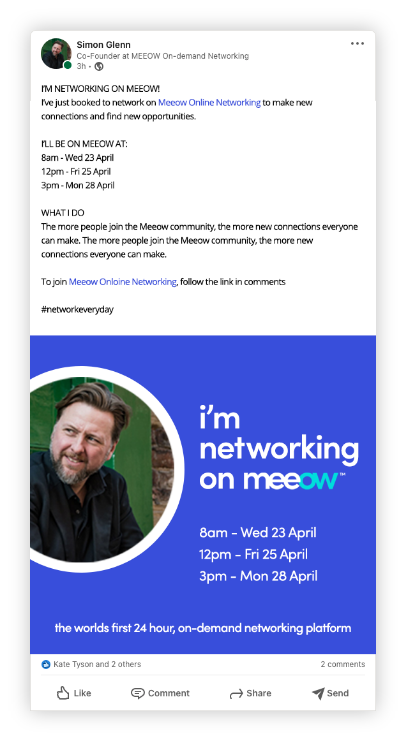
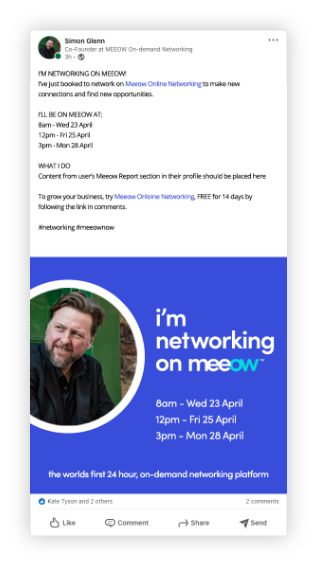
fix font and box sizing

Changed region(s): [[0.0568, 0.03, 0.9369, 0.9611]]

diff --git a/src/styles/popups.css b/src/styles/popups.css
@@ -13,9 +13,11 @@
 .popup {
   background-color: var(--main-blue);
   height: 60vh;
+  max-height: 380px;
   width: 60vw;
+  max-width: 672px;
   margin: auto;
-  margin-top: 20vh;
+  margin-top: 26vh;
   color: #fff;
   overflow: hidden;
   border-radius: 13px;
@@ -23,26 +25,32 @@
 
 .share-linkedin {
   width: 80vw;
+  max-width: 1330px;
   height: 75vh;
+  max-height: 638px;
   margin-top: 12vh;
 }
 
 .popup #close-btn {
   position: relative;
-  left: 56.5vw;
-  top: 0;
+  font-weight: 100;
+  top: -10px;
+  text-align: right;
   margin: 10px;
-  font-size: 1.4rem;
+  font-size: 3rem;
   z-index: 10;
 }
 
+.popup #close-btn:hover {
+  cursor: pointer;
+}
+
 .share-linkedin #close-btn {
-  left: 76vw;
-  color: #17171750;
+  color: var(--main-blue);
 }
 
 .popup-text {
-  margin-top: 8vh;
+  margin-top: 6vh;
   text-align: center;
 }
 
@@ -54,21 +62,22 @@
   text-decoration-skip-ink: none;
 }
 .popup .emoji {
-  height: 100px;
+  height: 55px;
   margin-bottom: 10px;
 }
 .popup .popup-title {
-  font-size: 3rem;
+  font-size: 2.14rem;
   letter-spacing: -1px;
   font-weight: 600;
   margin-bottom: 40px;
 }
 .popup h3 {
-  font-size: 1.8rem;
+  font-size: 1.43rem;
   margin-bottom: 10px;
 }
 .popup .popup-subtitle {
-  font-size: 1.4rem;
+  font-size: 1.14rem;
+  font-weight: 400;
 }
 
 .popup button {
@@ -78,7 +87,7 @@
   height: 50px;
   width: 270px;
   color: var(--white);
-  font-size: 1.2rem;
+  font-size: 1.12rem;
   font-weight: 600;
   margin-top: 36px;
   transition: 0.2 ease-in-out;
@@ -94,7 +103,7 @@
 
   text-decoration: underline;
   display: block;
-  margin-top: 30px;
+  margin-top: 20px;
 }
 
 /* POPUP WHT */
@@ -102,11 +111,11 @@
   background-color: #fff;
 }
 .popup-wht #close-btn {
-  color: #17171750;
+  color: var(--main-blue);
 }
 
 .popup-wht .popup-text {
-  margin-top: 11vh;
+  margin-top: 8vh;
 }
 
 .popup-wht .popup-title {
@@ -126,7 +135,7 @@
 
 /* NO ONE THERE POPUP */
 #noone-popup {
-  margin-top: 5vh;
+  margin-top: 1vh;
 }
 
 #noone-popup .popup-title {
@@ -135,15 +144,17 @@
 }
 
 #noone-popup .emoji {
-  height: 4rem;
+  height: 36px;
 }
 
 #noone-popup .popup-subtitle {
   margin-bottom: 10px;
+  margin-top: 10px;
 }
 #noone-popup .user-icon {
   display: inline-block;
-  margin: 10px 15px 0px 15px;
+  height: 48px;
+  margin: 20px 8px 0px 8px;
 }
 
 /* SOMEONE ELSE JOINED POPUP */
@@ -160,22 +171,26 @@
 }
 
 /* SHARE LINKEDIN POPUP */
-
+.popup-joined {
+  display: grid;
+  grid-template-columns: repeat(2, 50%);
+  width: 80vw;
+  max-width: 1330px;
+  height: 75vh;
+  max-height: 638px;
+}
 .popup-joined .popup-text {
-  display: inline-block;
-  width: 50%;
+  width: 100%;
   text-align: left;
-
-  padding-left: 5vw;
-  padding-right: 100px;
+  padding-left: 4vw;
+  padding-right: 150px;
 }
 
 .popup-joined .popup-title {
-  font-size: 2.9rem;
-  margin-bottom: 10%;
+  font-size: 2.14rem;
 }
 .popup-joined p {
-  font-size: 1.2rem;
+  font-size: 1.14rem;
 }
 .popup-joined button {
   background-color: #fff;
@@ -186,23 +201,25 @@
 }
 .popup-joined a {
   display: block;
-  margin-top: 20px;
+  position: relative;
+  top: 90px;
+  left: -40px;
   color: #fff;
   text-decoration: underline;
 }
 .popup-joined .image-container {
-  display: inline-block;
   background-color: #fff;
-  width: 40%;
-  height: 75vh;
-  position: absolute;
-  top: 12vh;
+  width: 100%;
+  height: 102%;
+  position: relative;
+  top: -50px;
   border-radius: 0 13px 13px 0;
+  display: flex;
+  justify-content: center;
+  align-items: center;
 }
 .popup-joined img {
   height: 80%;
-  top: 0;
-  margin: 6vh 25%;
 }
 .popup .popup-countdown {
   background-color: var(--main-blue);

diff --git a/src/components/popups/Popup.js b/src/components/popups/Popup.js
@@ -18,6 +18,7 @@ export default function popup({ closePopup, content, color }) {
         opacity: 1,
       }}
       className="popup-bkgrnd"
+      onClick={closePopup}
     >
       <motion.div
         initial={{
@@ -37,8 +38,11 @@ export default function popup({ closePopup, content, color }) {
             ? "share-linkedin"
             : ""
         }`}
+        onClick={(e) => e.stopPropagation()}
       >
-        <FaTimes id="close-btn" onClick={closePopup} />
+        <p id="close-btn" onClick={closePopup}>
+          &times;
+        </p>
         {content === "BookedMeeow" && <BookedMeeow />}
         {content === "BookedStarting" && <BookedStarting />}
         {content === "MeeowStarting" && <MeeowStarting />}

diff --git a/src/components/popups/ShareLinkedInBooked.js b/src/components/popups/ShareLinkedInBooked.js
@@ -18,7 +18,8 @@ export default function ShareLinkedinBooked({ closePopup }) {
         <div className="popup-joined">
           <div className="popup-text">
             <h2 className="popup-title">
-              help us make Meeow amazing,{" "}
+              help us make Meeow amazing,
+              <br />
               <span className="underline">for you!</span>
             </h2>
             <p>

diff --git a/src/components/popups/ShareLinkedInJoined.js b/src/components/popups/ShareLinkedInJoined.js
@@ -18,7 +18,8 @@ export default function ShareLinkedinJoined({ closePopup }) {
         <div className="popup-joined">
           <div className="popup-text">
             <h2 className="popup-title">
-              help us make Meeow amazing,{" "}
+              help us make Meeow amazing,
+              <br />
               <span className="underline">for you!</span>
             </h2>
             <p>
